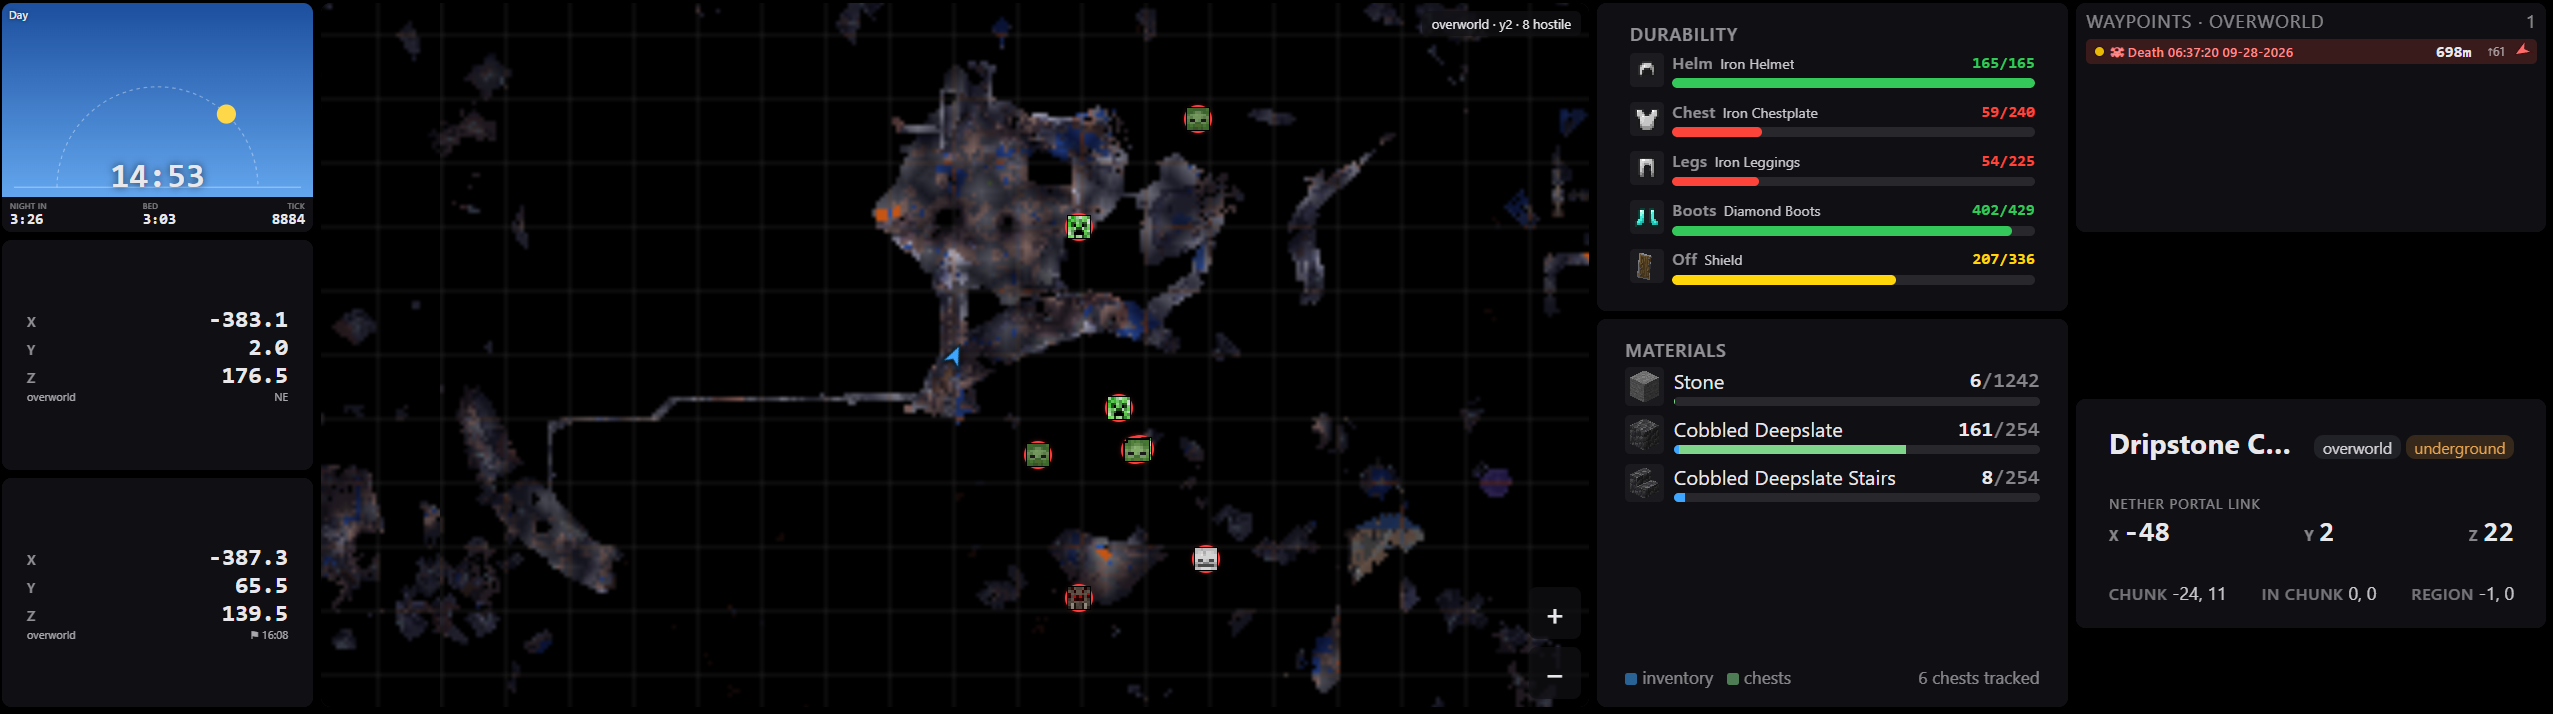
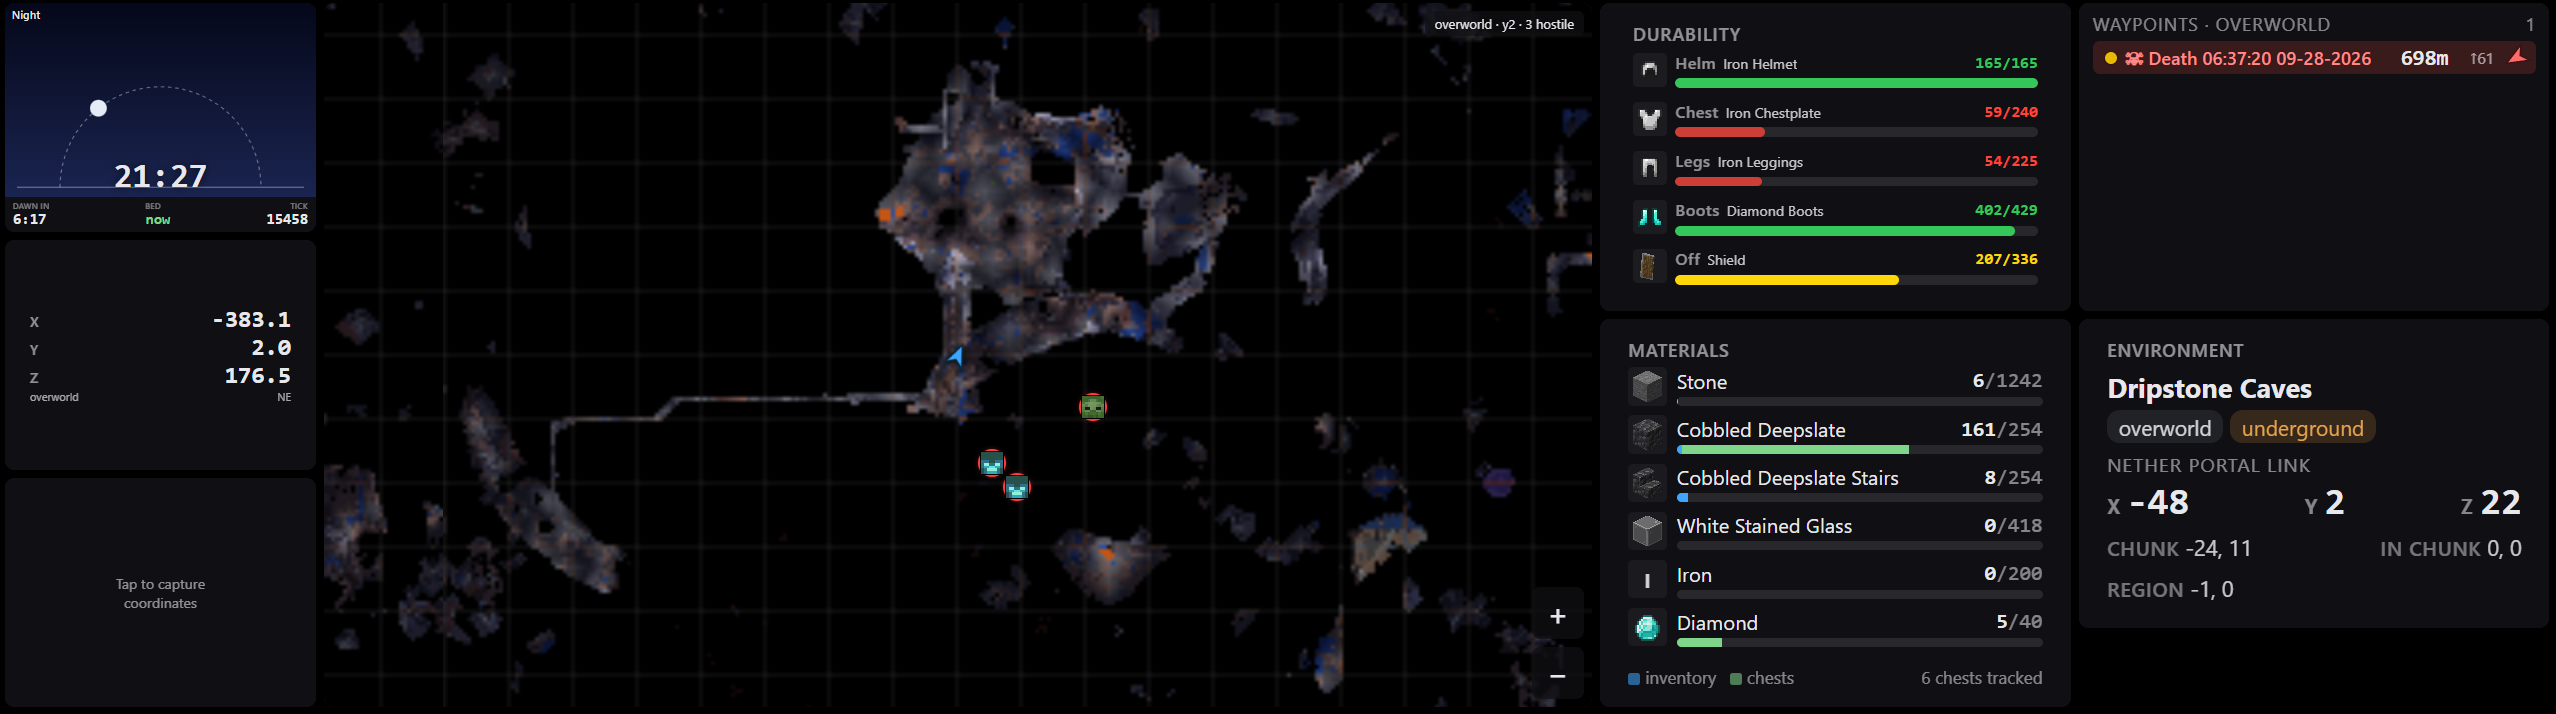
Small updates to formatting, tweaking to have the same feel across the widgets.  Updated Readme.

diff --git a/widgets/environment/index.html b/widgets/environment/index.html
@@ -6,7 +6,7 @@
 <meta name="x-icue-property" data-name="fontScale" data-label="Text size multiplier (1 = default)" data-type="textfield" data-default="1" />
 <style>
 	/* Sized from the panel's smaller side so the widget scales to any grid cell. */
-	html { font-size: 6.5vmin; }
+	html { font-size: 5.6vmin; }
 	html, body {
 		margin: 0;
 		padding: 0;
@@ -21,27 +21,34 @@
 		box-sizing: border-box;
 		width: 100%;
 		height: 100%;
-		padding: 5% 7%;
+		padding: 4% 6% 5%;
 		display: flex;
 		flex-direction: column;
 		justify-content: space-between;
+		gap: 0.25em;
+	}
+	.title {
+		font-size: 3.8vw;      /* by panel width so titles match across panels of the same width */
+		font-weight: 600;
+		opacity: 0.6;
+		letter-spacing: 0.05em;
+		text-transform: uppercase;
 	}
 	.biome-row {
 		display: flex;
-		align-items: baseline;
-		justify-content: space-between;
-		gap: 0.6em;
+		flex-direction: column;
+		gap: 0.25em;
 		min-width: 0;
 	}
 	#biome {
-		font-size: 1.9em;
+		font-size: 1.35em;
 		font-weight: 700;
 		white-space: nowrap;
 		overflow: hidden;
 		text-overflow: ellipsis;
 		min-width: 0;
 	}
-	.tags { display: flex; gap: 0.35em; flex: none; }
+	.tags { display: flex; gap: 0.35em; flex: none; flex-wrap: wrap; }
 	.tag {
 		font-size: 1.05em;
 		padding: 0.12em 0.55em;
@@ -82,10 +89,10 @@
 		display: flex;
 		justify-content: space-between;
 		gap: 0.5em;
-		font-size: 1.2em;
+		font-size: 1.1em;
 		opacity: 0.85;
 		font-variant-numeric: tabular-nums;
-		white-space: nowrap;
+		flex-wrap: wrap;   /* three cells; the last wraps to a second line when the panel is narrow */
 	}
 	.chunk-row b {
 		font-size: 0.9em;
@@ -111,6 +118,7 @@
 </head>
 <body>
 	<div class="wrap">
+		<div class="title">Environment</div>
 		<div class="biome-row">
 			<div id="biome">--</div>
 			<div class="tags" id="tags"></div>

diff --git a/widgets/materials/index.html b/widgets/materials/index.html
@@ -116,6 +116,7 @@
 	}
 	.legend .l-inv::before { background: #3ea6ff; }
 	.legend .l-box::before { background: #7fd68a; }
+	.empty-list:empty { display: none; }
 	.empty-list {
 		flex: 1;
 		display: flex;
@@ -182,6 +183,20 @@
 	var wanted = parseItems();
 	var rows = {};
 
+	// More rows than fit: shrink the text (down to ~half) until they do, rather than clip.
+	var baseFont = document.documentElement.style.fontSize;
+	var lastVisible = -1;
+	function fitList() {
+		var list = document.getElementById("list");
+		document.documentElement.style.fontSize = baseFont;
+		var size = parseFloat(baseFont);
+		for (var i = 0; i < 8 && list.scrollHeight > list.clientHeight + 1; i++) {
+			size *= 0.92;
+			document.documentElement.style.fontSize = size + "vmin";
+		}
+	}
+	window.addEventListener("resize", function () { lastVisible = -1; });
+
 	// Shows the item picture; while it is unavailable (mod not up yet, or fetching the
 	// sprite) a letter stands in and the picture is retried every 20 s.
 	function loadIcon(host, itemId, fallbackText) {
@@ -236,11 +251,14 @@
 			order.sort(function (a, b) { return rows[b.id].remaining - rows[a.id].remaining; });
 		}
 		// Re-append in order; the browser moves existing nodes, so icons are not reloaded.
+		var visible = 0;
 		order.forEach(function (item) {
 			var r = rows[item.id];
 			r.el.style.display = r.hidden ? "none" : "";
+			if (!r.hidden) visible++;
 			list.appendChild(r.el);
 		});
+		if (visible !== lastVisible) { lastVisible = visible; fitList(); }
 
 		var status = document.getElementById("status");
 		var n = (state.containers || []).length;

diff --git a/dashboard/config.js b/dashboard/config.js
@@ -61,7 +61,7 @@ window.HUD_CONFIG = {
 		} },
 
 		// RIGHT WIDGETS
-		{ widget: "waypoints", col: 14, row: 1, colSpan: 3, rowSpan: 3 },
-		{ widget: "environment", col: 14, row: 6, colSpan: 3, rowSpan: 3 }
+		{ widget: "waypoints", col: 14, row: 1, colSpan: 3, rowSpan: 4 },
+		{ widget: "environment", col: 14, row: 5, colSpan: 3, rowSpan: 4 }
 	]
 };

diff --git a/README.md b/README.md
@@ -10,9 +10,9 @@ Minecraft 26.3.
 
 ![The dashboard on the Xeneon Edge: clock, live and tapped coordinates, the cave map with hostile mobs, armor durability, a materials list, waypoints and environment](docs/dashboard.png)
 
-*Underground in a dripstone cave: the map has switched to the cave layer and shows
-eight hostiles nearby, the chestplate and leggings are in the red, and the build
-project has 6 chests' worth of cobbled deepslate counted.*
+*Night, underground in a dripstone cave: the clock says the bed works now, the map
+has switched to the cave layer and shows three hostiles nearby, the chestplate and
+leggings are in the red, and the build project counts six tracked chests.*
 
 ## Default layout
 
